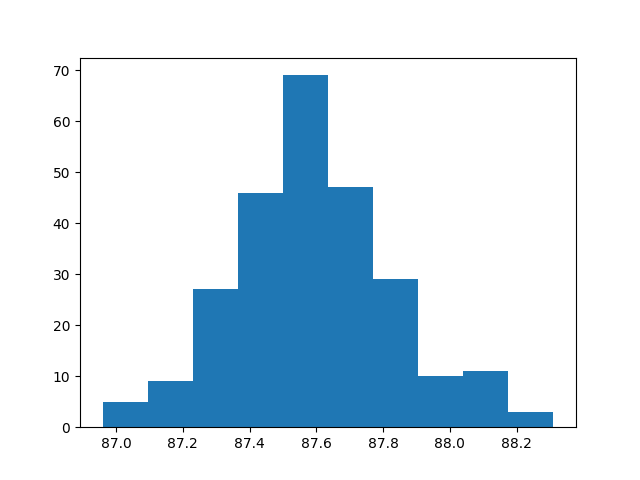
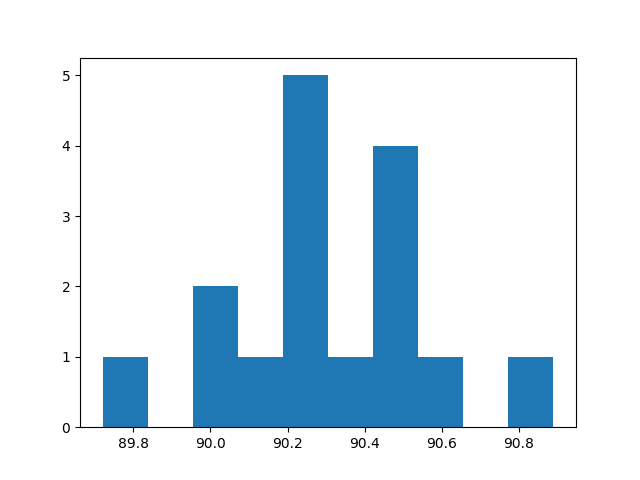
changes

diff --git a/auxiliary_nets_study/eval_rand_edouard.py b/auxiliary_nets_study/eval_rand_edouard.py
@@ -23,6 +23,7 @@ import torch.optim as optim
 from torchvision import datasets, transforms
 import matplotlib.pyplot as plt
 #import gspread
+import random
 #from oauth2client.service_account import ServiceAccountCredentials
 
 
@@ -161,64 +162,60 @@ def main():
                          ])),
         batch_size=args.test_batch_size, shuffle=False, num_workers=2)
 
+    N=2
+    models = []
+    for i in range(0, N ):
+        model = None
 
-    # Model
-    if args.model.startswith('vgg'):
-        model = VGGn(args.model, feat_mult=args.feat_mult, dropout=args.dropout,nonlin=args.nonlin,
-                      loss_sup= args.loss_sup, dim_in_decoder=args.dim_in_decoder, num_layers=args.num_layers,
-            num_hidden = args.num_hidden, aux_type=args.aux_type,
-            n_mlp=args.n_mlp, n_conv=args.n_conv, pooling=args.pooling,
-            bn=args.bn, aux_bn=args.aux_bn)
-    elif args.model == 'resnet18':
-        model = resnet18(n_conv=args.n_conv, mlp=args.n_mlp,
-                                       block_size=args.block_size,
-                                       pooling=args.pooling,
-                                       loss_sup=args.loss_sup)
-    elif args.model == 'resnet34':
-        model = resnet34(n_conv=args.n_conv, mlp=args.n_mlp,
-                                       block_size=args.block_size,
-                                       pooling=args.pooling,
-                                       loss_sup=args.loss_sup)
-    elif args.model == 'resnet50':
-        model = resnet50(n_conv=args.n_conv, mlp=args.n_mlp,
-                                       block_size=args.block_size,
-                                       pooling=args.pooling,
-                                       loss_sup=args.loss_sup)
-    elif args.model == 'resnet101':
-        model = resnet101(n_conv=args.n_conv, mlp=args.n_mlp,
-                                       block_size=args.block_size,
-                                       pooling=args.pooling,
-                                       loss_sup=args.loss_sup)
-    elif args.model == 'resnet152':
-        model = resnet152(n_conv=args.n_conv, mlp=args.n_mlp,
-                                       block_size=args.block_size,
-                                       pooling=args.pooling,
-                                       loss_sup=args.loss_sup)
-    else:
-        print('No valid model defined')
 
-    #wandb.watch(model)
-    #if args.cuda:
-    #    model = model.cuda()
-    print(model)
+        # Model
+        if args.model.startswith('vgg'):
+            model = VGGn(args.model, feat_mult=args.feat_mult, dropout=args.dropout, nonlin=args.nonlin,
+                         loss_sup=args.loss_sup, dim_in_decoder=args.dim_in_decoder, num_layers=args.num_layers,
+                         num_hidden=args.num_hidden, aux_type=args.aux_type,
+                         n_mlp=args.n_mlp, n_conv=args.n_conv, pooling=args.pooling,
+                         bn=args.bn, aux_bn=args.aux_bn)
+        elif args.model == 'resnet18':
+            model = resnet18(n_conv=args.n_conv, mlp=args.n_mlp,
+                             block_size=args.block_size,
+                             pooling=args.pooling,
+                             loss_sup=args.loss_sup)
+        elif args.model == 'resnet34':
+            model = resnet34(n_conv=args.n_conv, mlp=args.n_mlp,
+                             block_size=args.block_size,
+                             pooling=args.pooling,
+                             loss_sup=args.loss_sup)
+        elif args.model == 'resnet50':
+            model = resnet50(n_conv=args.n_conv, mlp=args.n_mlp,
+                             block_size=args.block_size,
+                             pooling=args.pooling,
+                             loss_sup=args.loss_sup)
+        elif args.model == 'resnet101':
+            model = resnet101(n_conv=args.n_conv, mlp=args.n_mlp,
+                              block_size=args.block_size,
+                              pooling=args.pooling,
+                              loss_sup=args.loss_sup)
+        elif args.model == 'resnet152':
+            model = resnet152(n_conv=args.n_conv, mlp=args.n_mlp,
+                              block_size=args.block_size,
+                              pooling=args.pooling,
+                              loss_sup=args.loss_sup)
+        else:
+            print('No valid model defined')
 
-    import copy
-    model2 = copy.deepcopy(model)
-    model.load_state_dict(torch.load('model_0'))
-    model2.load_state_dict(torch.load('model_1'))
-
-    n_cnn = len(model.main_cnn.blocks)
+        model.load_state_dict(torch.load('model_'+str(i)))
+        if args.cuda:
+            model = model.cuda()
+        model.eval()
+        models.append(model)
+    n_cnn = len(models[0].main_cnn.blocks)
     n = n_cnn
 
 ######################### Lets do the training
     losses = AverageMeter()
     top1 = AverageMeter()
 
-    model = model.cuda()
-    model2 = model2.cuda()
-
-    model.eval()
-    model2.eval()
+    indices = random.sample(range(256), 16)
     with torch.no_grad():
         total = 0
         histogram = []
@@ -235,25 +232,23 @@ def main():
             for k in range(n_cnn-1):
                 for rep in array:
                     rep_ = rep.cuda()
-                    #rep = rep.cuda(non_blocking=True)
-                    output, _, rep_1 = model(rep_, n=k)
-                    array_2.append(rep_1.cpu())
-                    output, _, rep_2 = model2(rep_, n=k)
-                    array_2.append(rep_2.cpu())
-                    #del rep
+                    for model in models:
+                        output, _, rep_1 = model(rep_, n=k)
+                        array_2.append(rep_1.cpu())
                 array = array_2
                 array_2 = []
             for rep in array:
-                #rep = rep.cuda(non_blocking=True)
                 rep_ = rep.cuda()
-                output, _, rep_1 = model(rep_, n=n-1)
-                array_2.append(output.cpu())
-                output, _, rep_2 = model2(rep_, n=n-1)
-                array_2.append(output.cpu())
+                for model in models:
+                    output, _, rep_1 = model(rep_, n=n-1)
+                    array_2.append(output.cpu())
             for c, out in enumerate(array_2):
                histogram[c].update(float(accuracy(out.data, target)[0]), float(input.size(0)))
-
-            array = torch.mean(torch.stack(array_2, dim=0), dim=0)
+            array = []
+            for i in indices:
+                array.append(array_2[i])
+            array = torch.stack(array, dim=0)
+            array = torch.mean(array, dim=0)
             # measure accuracy and record loss
             loss = F.cross_entropy(array, target)
             losses.update(float(loss.item()), float(input.size(0)))
@@ -263,9 +258,9 @@ def main():
 
             total += input.size(0)
         hist = []
-        for a in histogram:
-            print(a.avg)
-            hist.append(a.avg)
+        for i in indices:
+            print(histogram[i].avg)
+            hist.append(histogram[i].avg)
         
         fig = plt.hist(hist, bins=10)
         plt.savefig('histogram.png')

diff --git a/auxiliary_nets_study/models.py b/auxiliary_nets_study/models.py
@@ -157,7 +157,7 @@ cfg = {
     'vgg6a': [128, 'M', 256, 'M', 512, 'M', 512],
     'vgg6b': [128, 'M', 256, 'M', 512, 'M', 512, 'M'],
     'vgg8': [64, 'M', 128, 'M', 256, 'M', 512, 'M', 512, 'M'],
-    'vgg8a': [128, 256, 'M', 256, 512, 'M', 512, 'M', 512],
+    'vgg8a': [128//2, 256//2, 'M', 256//2, 512//2, 'M', 512//2, 'M', 512//2],
     'vgg8b': [128, 256, 'M', 256, 512, 'M', 512, 'M', 512, 'M'],
     'vgg11': [64, 'M', 128, 'M', 256, 256, 'M', 512, 512, 'M', 512, 512, 'M'],
     'vgg11b': [128, 128, 128, 256, 'M', 256, 512, 'M', 512, 512, 'M', 512, 'M'],
@@ -286,21 +286,21 @@ class VGGn(nn.Module):
                  loss_sup="predsim", dim_in_decoder=2048, 
                  aux_type="nokland", n_mlp=0, bn=False,
                  aux_bn=False):
-        #layers = nn.ModuleList([LocalLossBlockLinear(input_dim * input_dim * input_ch,
-        #                                                  num_hidden, num_classes, dropout=dropout, nonlin=nonlin,
-        #                                                  first_layer=True,
-        #                                                  bn=bn)])
+        layers = nn.ModuleList([LocalLossBlockLinear(input_dim * input_dim * input_ch,
+                                                          num_hidden, num_classes, dropout=dropout, nonlin=nonlin,
+                                                          first_layer=True,
+                                                          bn=bn)])
 
-        #auxillery_layers = nn.ModuleList([auxillary_linear_classifier(num_hidden,
-        #        num_classes=num_classes,
-        #        n_mlp=n_mlp, 
-        #        loss_sup=loss_sup, bn=aux_bn,
-        #        dropout=dropout)])
+        auxillery_layers = nn.ModuleList([auxillary_linear_classifier(num_hidden,
+                num_classes=num_classes,
+                n_mlp=n_mlp, 
+                loss_sup=loss_sup, bn=aux_bn,
+                dropout=dropout)])
 
-        layer_out = nn.Sequential(View(), Linear_Layer_Local_Loss(1024*8,num_classes))
+        layer_out = nn.Sequential(View(), Linear_Layer_Local_Loss(1024,num_classes))
 
-        layers = nn.ModuleList([layer_out])
-        auxillery_layers = nn.ModuleList([Final_Layer_Local_Loss()])
+        layers += [layer_out]
+        auxillery_layers += [Final_Layer_Local_Loss()]
         return layers, auxillery_layers
 
 

diff --git a/auxiliary_nets_study/train_rand_edouard.py b/auxiliary_nets_study/train_rand_edouard.py
@@ -255,7 +255,7 @@ def main():
         models.append(model)
 
 
-
+    print(models[0])
     n_cnn = len(models[0].main_cnn.blocks)
 
     # scope = ["https://spreadsheets.google.com/feeds", "https://www.googleapis.com/auth/spreadsheets", "https://www.googleapis.com/auth/drive.file", "https://www.googleapis.com/auth/drive"]
